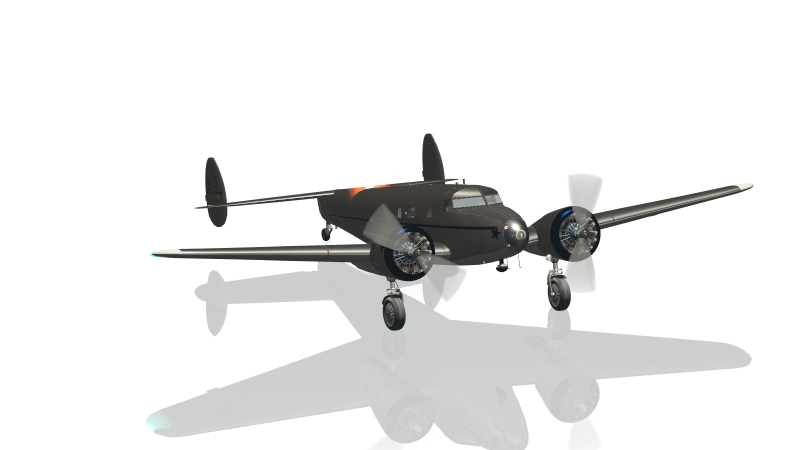
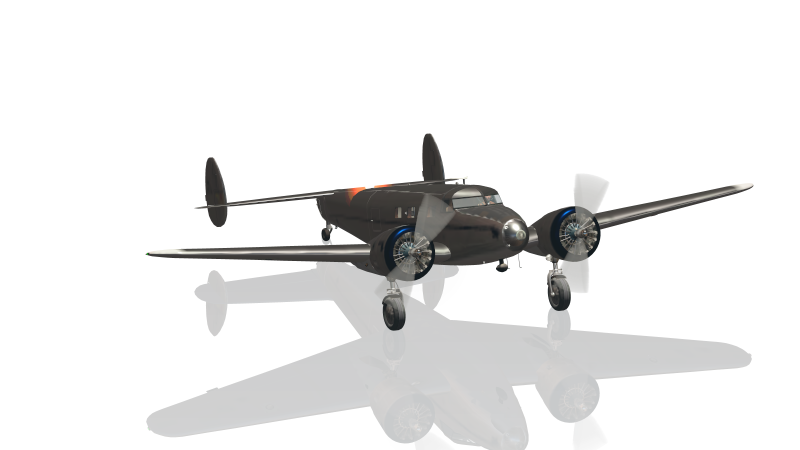
Fixed bare metal livery, regenerated thumbnails, added note about vintage cockpit liveries.

diff --git a/README.md b/README.md
@@ -95,7 +95,8 @@ If successful, there will be a separate UI entry named _"Lockheed L-12a"_ in X-P
 
 ### 3.1 Compatibility
 
-Repaints done for release 2.0.0 are generally compatible to this one.
+Repaints done for release 2.0.0 are generally compatible to this one.   
+**However, because there is _no more separate "vintage" model_, all textures and thumbnails must be renamed as if they belonged to the standard model by removing "__vintage_" from the filename.**
 
 &nbsp;
 
